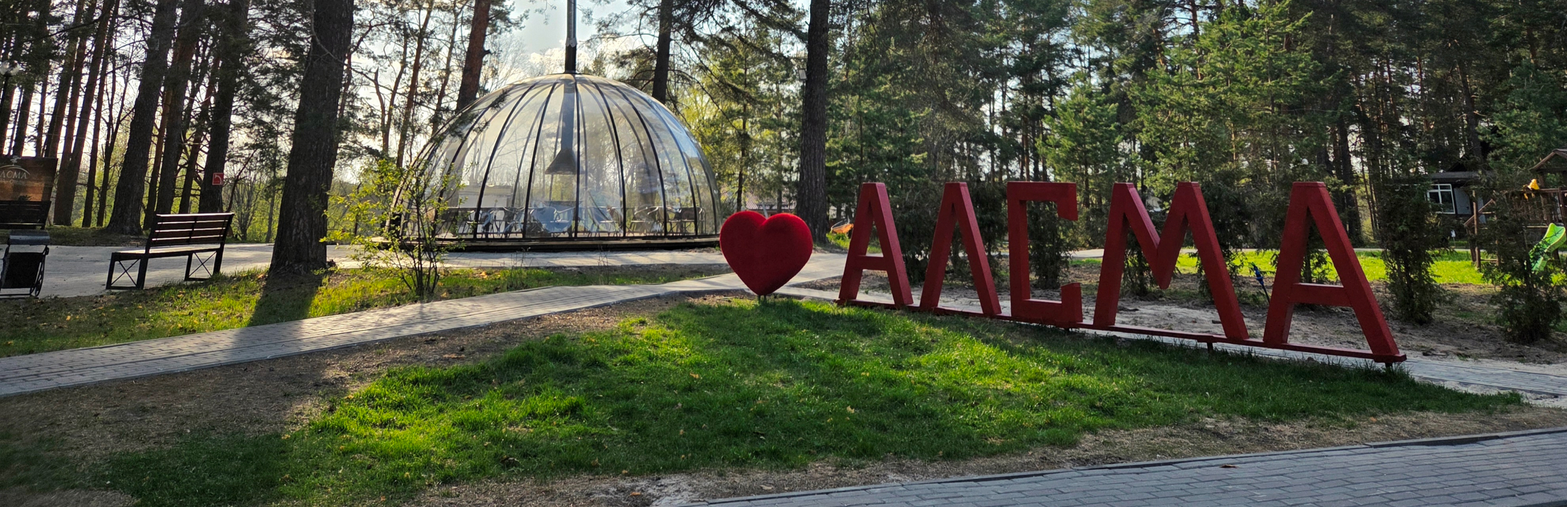
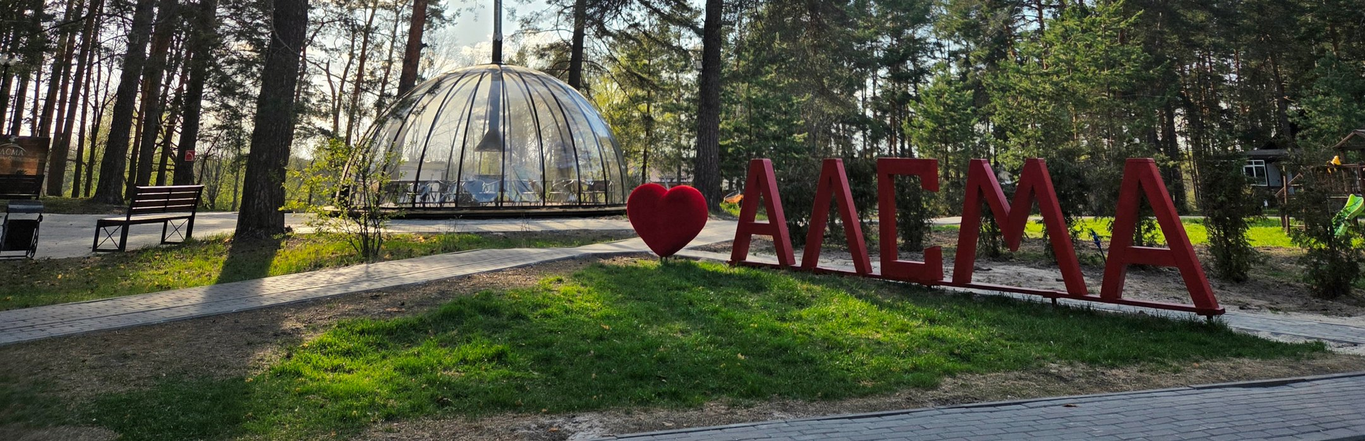
Speed up image loading on the ALSMA public site

diff --git a/app-1/src/pages/HomePage.tsx b/app-1/src/pages/HomePage.tsx
@@ -1,5 +1,7 @@
 import corporateCheckinsImage from "@/assets/alsma/corporate-checkins.jpg";
 import heroImage from "@/assets/alsma/hero.jpg";
+import forestMobile from "@/assets/alsma/home-hero-forest-900.webp";
+import forestDesktop from "@/assets/alsma/home-hero-forest-1920.webp";
 import { CatalogSections } from "@/components/site/CatalogSections";
 import { HomeBookingBar } from "@/components/site/HomeBookingBar";
 import {
@@ -22,6 +24,7 @@ import {
   HOME_REVIEWS,
   type HomeReview,
 } from "@/lib/site/home-content";
+import { canonicalMediaUrl } from "@/lib/site/media-url";
 import {
   ACTIVE_OFFERS,
   type ActiveOffer,
@@ -31,16 +34,28 @@ import {
 import { getRoomCards } from "@/lib/site/rooms-content";
 import { usePublishedSiteContent } from "@/lib/site/useSiteContent";
 
+// The published forest photo has a stable media ID. New CMS uploads retain
+// their own URLs and take precedence over these bundled sizes.
+const forestMediaPath =
[1 lines of base64/hex data omitted]
+
 export const HomePage = () => {
   const content = usePublishedSiteContent("home");
   const roomsContent = usePublishedSiteContent("rooms");
   const offersContent = usePublishedSiteContent("offers");
-  if (content.isLoading || roomsContent.isLoading || offersContent.isLoading) {
-    return <main className="min-h-screen bg-page" aria-busy="true" />;
-  }
   const hero = content.data?.items?.find(
     (item) => item.itemKey === "hero",
   )?.content;
+  const heroSource =
+    typeof hero?.mediaUrl === "string" && hero.mediaUrl.trim()
+      ? hero.mediaUrl
+      : typeof hero?.image === "string" && hero.image.trim()
+        ? hero.image
+        : undefined;
+  const useBundledForest =
+    (heroSource &&
+      canonicalMediaUrl(heroSource).split("?")[0] === forestMediaPath) ||
+    (!heroSource && (content.isPending || content.isError));
   const configuredRestCards = getSiteCollection<ReadyScenario>(
     offersContent.data?.items,
     "ready-scenarios",
@@ -91,19 +106,18 @@ export const HomePage = () => {
 
   return (
     <main className="min-h-screen bg-page text-page-foreground">
-      <section className="relative min-h-screen overflow-hidden text-brand-foreground">
+      <section className="relative min-h-screen overflow-hidden bg-brand text-brand-foreground">
         <SiteHeroMedia
           alt="Загородный отель АЛСМА"
           className="absolute inset-0 size-full object-cover"
           poster={
             typeof hero?.posterUrl === "string" ? hero.posterUrl : undefined
           }
-          source={
-            typeof hero?.mediaUrl === "string"
-              ? hero.mediaUrl
-              : typeof hero?.image === "string"
-                ? hero.image
-                : heroImage
+          source={useBundledForest ? forestDesktop : (heroSource ?? heroImage)}
+          srcSet={
+            useBundledForest
+              ? `${forestMobile} 900w, ${forestDesktop} 1920w`
+              : undefined
           }
         />
         <div className="absolute inset-0 bg-hero-media-tint" />

diff --git a/app-1/src/components/site/HomeDiscoverySections.tsx b/app-1/src/components/site/HomeDiscoverySections.tsx
@@ -125,6 +125,8 @@ const HomeMapSection = () => (
       <div className="rounded-4xl border border-supporting p-5">
         <div className="relative overflow-hidden rounded-3xl">
           <img
+            decoding="async"
+            loading="lazy"
             alt="Пространство тишины с видом сверху"
             className="w-full"
             src={spaceImage}
@@ -168,6 +170,8 @@ export const HomeExperienceSections = () => (
             <article className="rounded-3xl" key={title}>
               <div className="relative h-64 overflow-hidden rounded-3xl">
                 <img
+                  decoding="async"
+                  loading="lazy"
                   alt={title}
                   className="size-full object-cover"
                   src={resolveMediaUrl(image)}
@@ -206,6 +210,8 @@ export const HomeExperienceSections = () => (
               key={title}
             >
               <img
+                decoding="async"
+                loading="lazy"
                 alt={title}
                 className="absolute inset-0 size-full object-cover transition duration-500 group-hover:scale-105"
                 src={resolveMediaUrl(image)}
@@ -227,6 +233,8 @@ export const HomeExperienceSections = () => (
         </div>
         <article className="mt-10 grid overflow-hidden rounded-4xl bg-panel lg:grid-cols-2">
           <img
+            decoding="async"
+            loading="lazy"
             alt="Корпоративные заезды"
             className="size-full min-h-80 object-cover"
             src={corporateImage}
@@ -272,6 +280,8 @@ export const HomeExperienceSections = () => (
               key={title}
             >
               <img
+                decoding="async"
+                loading="lazy"
                 alt={title}
                 className="h-48 w-full object-cover md:h-auto md:w-2/5 xl:h-48 xl:w-full"
                 src={resolveMediaUrl(image)}
@@ -393,6 +403,7 @@ export const HomeContactSections = () => {
           </div>
           <iframe
             allowFullScreen
+            loading="lazy"
             className="h-full min-h-130 w-full rounded-4xl border-0"
             src="https://yandex.ru/map-widget/v1/?ll=44.113128%2C56.537617&z=16"
             title="Яндекс Карта с отметкой отеля АЛСМА"
@@ -403,6 +414,8 @@ export const HomeContactSections = () => {
       <section className="px-4 pt-6 pb-24 sm:px-6">
         <div className="relative mx-auto max-w-[100rem] overflow-hidden rounded-4xl px-6 py-12 text-center text-brand-foreground">
           <img
+            decoding="async"
+            loading="lazy"
             alt=""
             className="absolute inset-0 size-full object-cover"
             src={ctaImage}

diff --git a/app-1/src/components/site/HomeContentSections.tsx b/app-1/src/components/site/HomeContentSections.tsx
@@ -127,6 +127,8 @@ export const HomeRestSection = ({
           </div>
           <div className="order-1 min-h-80 overflow-hidden lg:order-2">
             <img
+              decoding="async"
+              loading="lazy"
               alt={card.title}
               className="size-full object-cover transition duration-500 group-hover:scale-105"
               src={resolveMediaUrl(card.image)}
@@ -171,6 +173,8 @@ export const HomePromotionsSection = ({
               >
                 <div className="h-56 overflow-hidden">
                   <img
+                    decoding="async"
+                    loading="lazy"
                     alt={offer.title}
                     className="size-full object-cover transition duration-500 group-hover:scale-105"
                     src={resolveMediaUrl(offer.image)}
@@ -217,6 +221,7 @@ export const HomePromotionsSection = ({
         {selectedOffer && (
           <>
             <img
+              decoding="async"
               alt={selectedOffer.title}
               className="relative -mx-6 block aspect-video w-[calc(100%+3rem)] max-w-none shrink-0 object-cover"
               src={resolveMediaUrl(selectedOffer.image)}
@@ -296,6 +301,8 @@ export const HomeReviewsSection = ({
                   )
                   .map((image, index) => (
                     <img
+                      decoding="async"
+                      loading="lazy"
                       alt={`Фото к отзыву ${review.name} ${index + 1}`}
                       className="size-16 rounded-2xl object-cover"
                       key={image}
@@ -343,6 +350,8 @@ export const HomeRoomsSection = ({
               key={room.title}
             >
               <img
+                decoding="async"
+                loading="lazy"
                 alt={room.title}
                 className="h-64 w-full object-cover"
                 src={resolveMediaUrl(room.image)}

diff --git a/app-1/src/components/site/SiteHeroMedia.tsx b/app-1/src/components/site/SiteHeroMedia.tsx
@@ -21,11 +21,13 @@ export const SiteHeroMedia = ({
   className,
   poster,
   source,
+  srcSet,
 }: {
   readonly alt?: string;
   readonly className: string;
   readonly poster?: string;
   readonly source: string;
+  readonly srcSet?: string;
 }) => {
   const resolvedSource = resolveMediaUrl(source);
   const resolvedPoster = poster ? resolveMediaUrl(poster) : undefined;
@@ -42,6 +44,13 @@ export const SiteHeroMedia = ({
       src={resolvedSource}
     />
   ) : (
-    <img alt={alt} className={className} src={resolvedSource} />
+    <img
+      alt={alt}
+      className={className}
+      fetchPriority="high"
+      src={resolvedSource}
+      srcSet={srcSet}
+      sizes={srcSet ? "100vw" : undefined}
+    />
   );
 };

diff --git a/app-1/src/components/site/RoomGallery.tsx b/app-1/src/components/site/RoomGallery.tsx
@@ -34,6 +34,8 @@ export const RoomGallery = ({
         >
           <img
             alt={title}
+            decoding="async"
+            loading="lazy"
             className="aspect-square size-full object-cover"
             src={resolveMediaUrl(currentImage)}
           />

diff --git a/app-1/src/components/site/HomeOfferPopup.tsx b/app-1/src/components/site/HomeOfferPopup.tsx
@@ -50,6 +50,8 @@ export const SiteOfferPopup = () => {
       </button>
       <img
         alt=""
+        decoding="async"
+        fetchPriority="low"
         className="h-48 w-full object-cover sm:h-52"
         src={resolveMediaUrl(banner.image)}
       />
